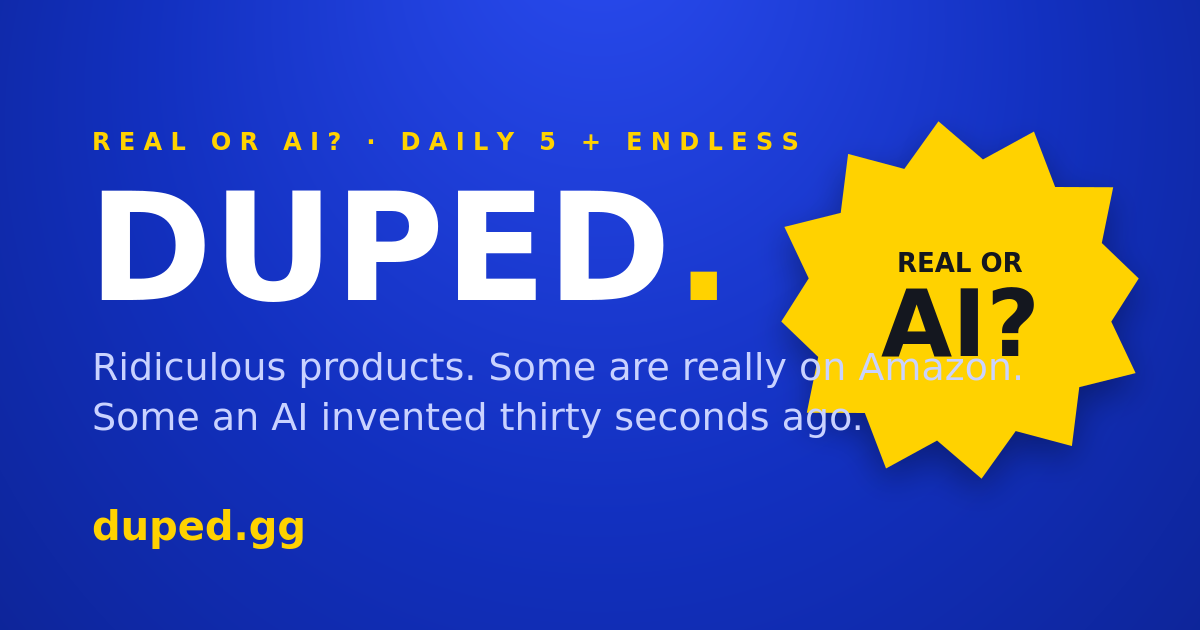
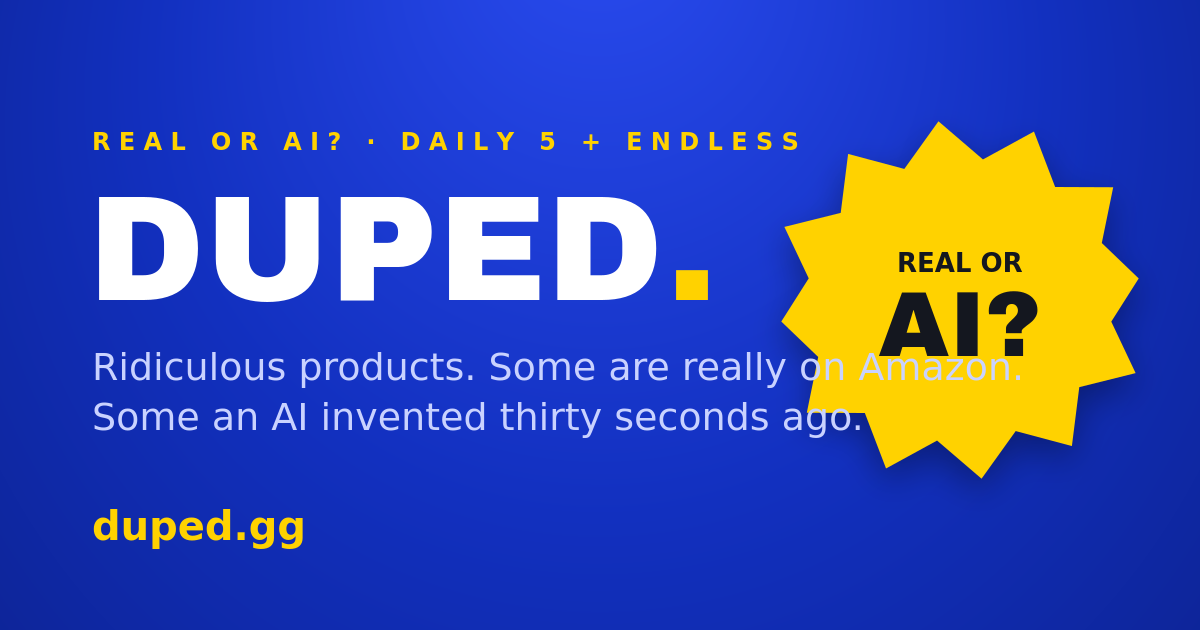
Self-host Archivo Black and pixel-match the OG card
The app declared 'Archivo Black' as its display face but never loaded it,
so it silently fell back to Arial. Self-host the font via @user so
the live site renders the intended display type, and register the same
TTF in the OG generator so static/og.png is pixel-matched to the app.

https://claude.ai/code/session_01KCxqDWNsa5NfS711SVrmVt

Changed region(s): [[0.0617, 0.3016, 0.6167, 0.4825], [0.74, 0.4524, 0.8633, 0.573]]

diff --git a/src/app.css b/src/app.css
@@ -2,6 +2,14 @@
    DUPED — duped.gg global styles
    --------------------------------------------------------------- */
 
+@font-face {
+	font-family: 'Archivo Black';
+	src: url('/fonts/ArchivoBlack-Regular.ttf') format('truetype');
+	font-weight: 400 900;
+	font-style: normal;
+	font-display: swap;
+}
+
 :root {
 	--cobalt: #1230bf;
 	--cobalt-deep: #0b1f86;